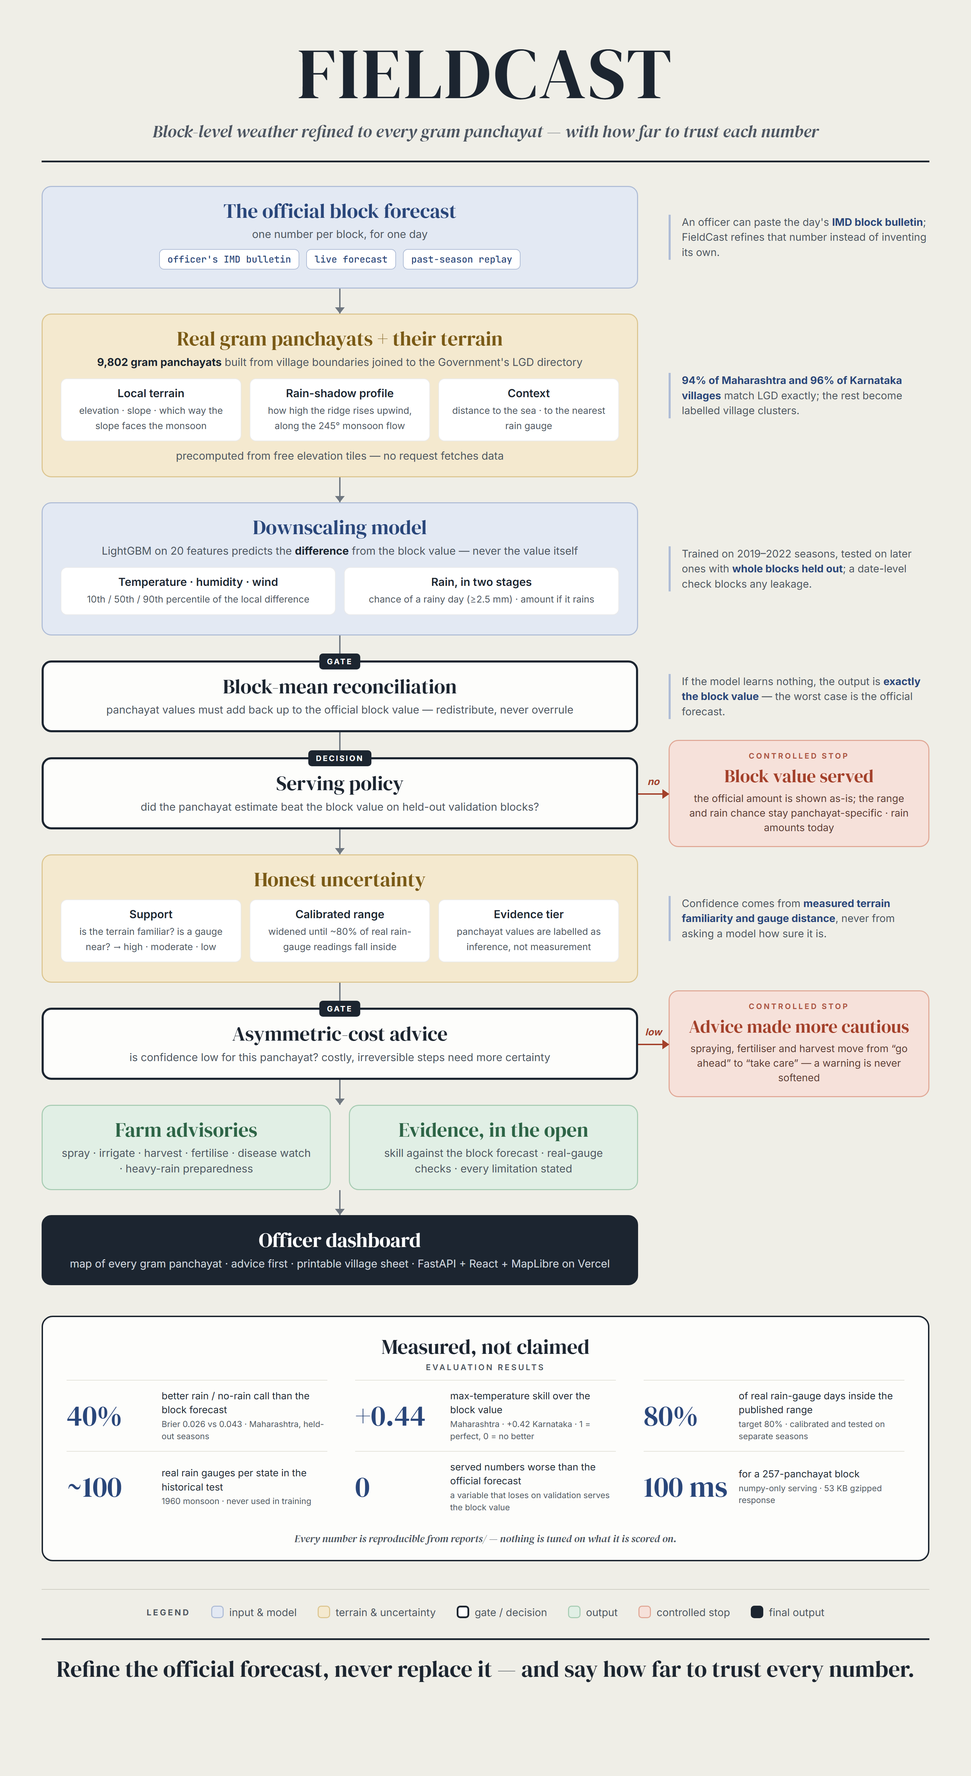
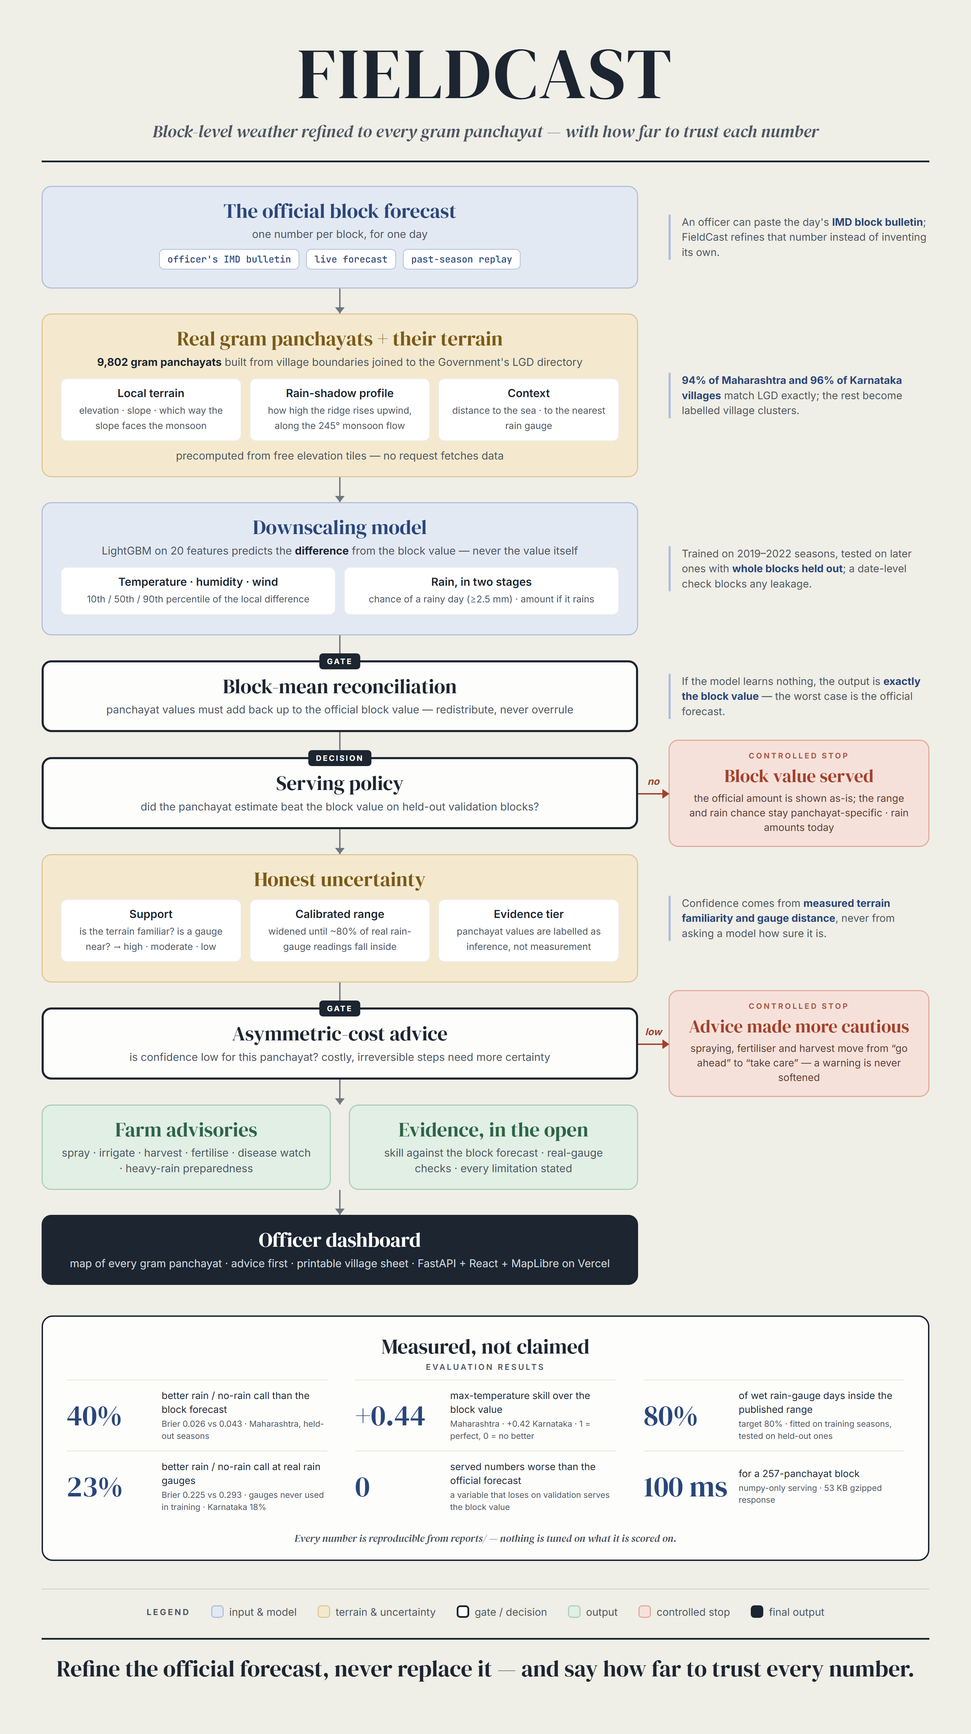
Expand README and show only measured results in the flowchart
README: badges, SIH context, features, design choices, coverage, results,
dashboard, stack, structure, run/test/deploy steps, API fields and credits.
Flowchart: replace the pending 1960 gauge-count stat with the measured
rain/no-rain skill at real gauges.

diff --git a/docs/flowchart/fieldcast-flowchart.html b/docs/flowchart/fieldcast-flowchart.html
@@ -217,8 +217,8 @@
     <div class="stats">
       <div class="stat"><div class="n" data-k="rain">40%</div><div class="d">better rain / no-rain call than the block forecast<small data-k="rain-note">Brier 0.026 vs 0.043 · Maharashtra, held-out seasons</small></div></div>
       <div class="stat"><div class="n" data-k="tmax">+0.44</div><div class="d">max-temperature skill over the block value<small data-k="tmax-note">Maharashtra · +0.42 Karnataka · 1 = perfect, 0 = no better</small></div></div>
-      <div class="stat"><div class="n" data-k="cov">80%</div><div class="d">of real rain-gauge days inside the published range<small data-k="cov-note">target 80% · calibrated and tested on separate seasons</small></div></div>
-      <div class="stat"><div class="n" data-k="gauges">~100</div><div class="d">real rain gauges per state in the historical test<small data-k="gauges-note">1960 monsoon · never used in training</small></div></div>
+      <div class="stat"><div class="n" data-k="cov">80%</div><div class="d">of wet rain-gauge days inside the published range<small data-k="cov-note">target 80% · fitted on training seasons, tested on held-out ones</small></div></div>
+      <div class="stat"><div class="n" data-k="gauges">23%</div><div class="d">better rain / no-rain call at real rain gauges<small data-k="gauges-note">Brier 0.225 vs 0.293 · gauges never used in training · Karnataka 18%</small></div></div>
       <div class="stat"><div class="n">0</div><div class="d">served numbers worse than the official forecast<small>a variable that loses on validation serves the block value</small></div></div>
       <div class="stat"><div class="n">100 ms</div><div class="d">for a 257-panchayat block<small>numpy-only serving · 53 KB gzipped response</small></div></div>
     </div>

diff --git a/README.md b/README.md
@@ -1,12 +1,105 @@
-# FieldCast
+<p align="center">
+  <img src="docs/logo.svg" alt="FieldCast" width="340" />
+</p>
 
-**Village-level weather, with honest confidence.**
-FieldCast (SIH26074) downscales block-level weather forecasts to **gram-panchayat
-level** for agro-meteorological advisories. Every value carries a **predictive
-range**, a **validation tier** and a **plain-language confidence label**, and the
-farm advice becomes more cautious where the system knows less.
+<p align="center">
+  <b>Village-level weather, with honest confidence.</b><br />
+  Block-level weather forecasts downscaled to every gram panchayat for agro-meteorological advisories.
+</p>
+
+<p align="center">
+  <img alt="Smart India Hackathon" src="https://img.shields.io/badge/Smart%20India%20Hackathon-SIH26074-f59e0b" />
+  <img alt="Ministry of Earth Sciences" src="https://img.shields.io/badge/Ministry-Earth%20Sciences-0a3b34" />
+  <img alt="Theme: Disaster Management" src="https://img.shields.io/badge/Theme-Disaster%20Management-a3402a" />
+  <img alt="License: MIT" src="https://img.shields.io/badge/License-MIT-047857" />
+</p>
+<p align="center">
+  <img alt="Python 3.12" src="https://img.shields.io/badge/Python-3.12-3776AB?logo=python&logoColor=white" />
+  <img alt="FastAPI" src="https://img.shields.io/badge/FastAPI-009688?logo=fastapi&logoColor=white" />
+  <img alt="LightGBM" src="https://img.shields.io/badge/LightGBM-quantile%20models-2e7d32" />
+  <img alt="React 18" src="https://img.shields.io/badge/React-18-20232a?logo=react&logoColor=61DAFB" />
+  <img alt="TypeScript" src="https://img.shields.io/badge/TypeScript-strict-3178C6?logo=typescript&logoColor=white" />
+  <img alt="MapLibre GL" src="https://img.shields.io/badge/MapLibre-GL-396CB2?logo=maplibre&logoColor=white" />
+  <img alt="Vercel" src="https://img.shields.io/badge/Deploy-Vercel-000000?logo=vercel&logoColor=white" />
+  <img alt="Tests: 408 passing" src="https://img.shields.io/badge/tests-408%20passing-047857" />
+</p>
+
+---
+
+## Contents
+
+[The problem](#the-problem) · [What FieldCast does](#what-fieldcast-does) · [How it works](#how-it-works) ·
+[Coverage](#coverage) · [Results](#results) · [The dashboard](#the-dashboard) · [Tech stack](#tech-stack) ·
+[Project structure](#project-structure) · [Run it locally](#run-it-locally) · [Deploy on Vercel](#deploy-on-vercel) ·
+[API](#api) · [Data and credits](#data-and-credits) · [Limitations](#limitations-stated-plainly)
+
+## The problem
+
+| | |
+|---|---|
+| **Problem statement** | SIH26074: *Downscaling of weather forecast from Block level to Panchayat level: inferring high-resolution plots / data / information / variables for agro-meteorological advisory services* |
+| **Ministry** | Ministry of Earth Sciences (MoES) |
+| **Theme** | Disaster Management |
+
+Agro-met advisories in India are issued per **block**, but a block can span a
+ridge, a valley and a rain shadow. Across the Western Ghats a windward slope can
+get a downpour while a village a few kilometres downwind stays dry. One number
+per block sends the same spraying, sowing and harvest advice to villages that
+will see very different weather.
+
+Two things make this harder than interpolation. Rainfall is not a smooth field,
+and **there is almost no panchayat-scale ground truth** to learn from or check
+against. So FieldCast's goal is the panchayat value **and** how far to trust it.
+
+## What FieldCast does
+
+- **Refines, never replaces, the official forecast.** It predicts each
+  panchayat's *difference* from the block value, and panchayat values always add
+  back up to the block value.
+- **Serves real gram panchayats.** It builds 9,802 of them from village
+  boundaries joined to the Government's LGD directory.
+- **Gives every number a range and a confidence level.** Each value has a
+  calibrated 80% range, a support level (high / moderate / low) and an evidence
+  tier.
+- **Treats rain as two statements.** It publishes a chance of rain (≥2.5 mm)
+  plus an *if-it-rains* amount range, instead of a misleading single number.
+- **Gives cautious farm advice.** Spraying, irrigation, harvest, fertiliser,
+  disease watch and heavy-rain preparedness move from *go ahead* to *take care*
+  where confidence is low. A warning is never softened.
+- **Accepts the officer's IMD bulletin.** An officer can type the official block
+  forecast and get it downscaled instantly.
+- **Shows its evidence in the open.** Skill, confidence intervals, gauge checks
+  and every loss are shown in the app, not only the wins.
+
+## How it works
 
 ![How FieldCast turns one block forecast into gram-panchayat advice](docs/flowchart/fieldcast-flowchart.png)
+
+| Design choice | Why |
+|---|---|
+| Predict the **anomaly** from the block value | If the model learns nothing, the output is exactly the official forecast |
+| **Rain-shadow terrain features**: ridge height upwind along the 245° monsoon flow, and the rise ahead | The rain shadow is caused by the ridge upwind of a village, not its local slope |
+| **Two-stage rainfall**: calibrated rainy-day classifier (IMD ≥2.5 mm) + conditional amount quantiles | One regressor smears drizzle everywhere; two stages allow "dry here, wet next door" |
+| **LightGBM quantile models** (10th / 50th / 90th percentile) | A predictive range, not just a point |
+| **Block-mean reconciliation** (rain reconciled in expectation) | The area-weighted panchayat mean equals the official block value |
+| **Serving policy** decided on validation data | A variable whose served estimate does not beat the block value serves the block value |
+| **Epistemic support**: terrain similarity to training data (chi-square-scaled Mahalanobis) + distance to a gauge | Tree models extrapolate with false confidence; low support widens the range and downgrades the advice |
+| **Gauge-calibrated ranges** | Ranges are widened until ~80% of real rain-gauge observations fall inside |
+| **Asymmetric-cost advice** | Irreversible, costly operations need more certainty than reversible ones |
+| **Numpy-only serving** | The trained trees are flattened into arrays (identical to ~1e-15), so the API runs without LightGBM, pandas or SciPy |
+
+### What is validated and what is inferred
+
+| Tier | Claim | Evidence |
+|---|---|---|
+| **T1** | Block → ~16 km grid | Held-out 2022-23 dry season and 2023 monsoon; whole blocks held out |
+| **T2** | → real rain gauge | NOAA GHCN gauges never used in training (4 modern gauges in Maharashtra, 3 in Karnataka) |
+| **T3** | → gram panchayat | **Not validated**: no panchayat-scale truth exists. Terrain-informed inference with a gauge-calibrated range, labelled in every response |
+
+Training uses the 2019–2022 monsoons and the 2021-22 dry season. A date-level
+check with a 3-day gap stops any test day from leaking into training.
+
+## Coverage
 
 | | Maharashtra (pilot) | Karnataka |
 |---|---|---|
@@ -15,44 +108,20 @@ farm advice becomes more cautious where the system knows less.
 | Villages | 11,740 | 7,999 |
 | Units served | **8,072 real gram panchayats** + 138 village clusters | **1,730 real gram panchayats** + 63 village clusters |
 
-Gram-panchayat boundaries are built by joining real village polygons to the
-Government of India's Local Government Directory (LGD) by census village code:
-94% of Maharashtra and 96% of Karnataka villages match exactly. The rest fall
-back to small village clusters, labelled as such in the app.
+Gram-panchayat boundaries are built by joining village polygons to the Local
+Government Directory (LGD) by census village code: 94% of Maharashtra and 96% of
+Karnataka villages match exactly. The rest fall back to small village clusters,
+labelled as such in the app.
 
----
-
-## Why this is not an interpolation problem
-
-Standard downscaling assumes the fine field is a smooth function of the coarse
-one. Rainfall is not smooth: across the Western Ghats a windward slope can get a
-downpour while a leeward village a few km away stays dry. And panchayat-scale
-ground truth barely exists. So the design goal is **the panchayat value *and* how
-far to trust it**.
-
-| Design choice | Why |
-|---|---|
-| Predict the **anomaly** from the block value | The system can only refine the official forecast; if it learns nothing it degrades exactly to "copy the block value" |
-| **Rain-shadow terrain features**: the ridge height upwind along the 245° monsoon flow, and the rise ahead | The rain shadow is caused by the ridge upwind of a village, not its local slope |
-| **Two-stage rainfall**: calibrated rainy-day classifier (IMD ≥2.5 mm) + amount ranges | One regressor smears drizzle everywhere; two stages allow "dry here, wet next door" |
-| **Block-mean reconciliation** (rain reconciled in expectation) | The area-weighted panchayat mean always equals the official block value |
-| **Epistemic support** (terrain similarity to training data + distance to a gauge) | Tree models extrapolate with false confidence; low support widens the range and downgrades the advice |
-| **Gauge-calibrated ranges** | The 80% range is widened so that it covers ~80% of real rain-gauge observations |
-| **Asymmetric-cost advice** | Under low confidence, irreversible operations (spraying, fertiliser, harvest) move from *go ahead* to *take care*, never the reverse |
-
-## What is validated and what is inferred
-
-| Tier | Claim | Evidence |
-|---|---|---|
-| **T1** | Block → ~16 km grid | Held-out 2022-23 dry season and 2023 monsoon; whole blocks held out |
-| **T2** | → real rain gauge | NOAA GHCN gauges never used in training: 4 modern gauges, and ~100 per state in the 1960 monsoon |
-| **T3** | → gram panchayat | **Not validated**: no panchayat-scale truth exists. Terrain-informed inference, gauge-calibrated range, labelled in every response |
+Variables: rainfall, maximum and minimum temperature, relative humidity and wind
+speed.
 
 ## Results
 
-Skill = 1 − MAE(model) / MAE(naive block copy); positive beats naive. 90% CIs are
-cluster bootstraps over blocks (T1) or gauges (T2); no result is called
-significant with fewer than 8 gauges. Full tables in `reports/`.
+Skill = 1 − MAE(model) / MAE(naive block copy); positive beats the block
+forecast, 1 is perfect. 90% CIs are cluster bootstraps over blocks (T1) or
+gauges (T2); no result is called significant with fewer than 8 gauges. Full
+tables are in [`reports/`](reports/) and on the app's Evidence page.
 
 | Held-out seasons, grid (T1) | Maharashtra | Karnataka |
 |---|---:|---:|
@@ -63,32 +132,99 @@ significant with fewer than 8 gauges. Full tables in `reports/`.
 | Rain / no-rain (Brier, lower is better) | **0.026** vs 0.043 block | **0.038** vs 0.056 block |
 | Rain amount | block value served | block value served |
 
-At real gauges never used in training (4 in Maharashtra, 3 in Karnataka), the
-rain / no-rain call again beats the block forecast (Brier 0.225 vs 0.293 and
-0.256 vs 0.313), and 80–81% of wet gauge-days fall inside the published
-if-it-rains range (target 80%).
+- **Real gauges never used in training.** The rain / no-rain call beats the
+  block forecast: Brier 0.225 vs 0.293 in Maharashtra (23% better) and 0.256 vs
+  0.313 in Karnataka. Also, 80–81% of wet gauge-days fall inside the published
+  if-it-rains range, against a target of 80%.
+- **Rain amounts** did not beat the block value on validation data. So
+  FieldCast serves the official amount as-is and adds the panchayat-specific
+  rain chance and range. Every variable follows this rule: nothing served was
+  worse than the block forecast on validation.
+- **Transfer test.** Maharashtra's models were applied to Karnataka.
+  Temperatures still improved (Tmax +0.20), but rain amounts got worse, so each
+  state is trained on its own data.
+- **Speed.** The largest block (257 panchayats) is served in ~100 ms, as a
+  53 KB gzipped response.
 
-Rain **amounts** did not beat the block value on validation data, so FieldCast
-serves the official amount as-is and adds the panchayat-specific rain chance
-and range. Every variable follows this rule: nothing served is worse than the
-block forecast on validation. Regenerate with
-`python -m backend.pipeline.evaluate.run`.
+## The dashboard
 
-## Running it locally
+Built for a block or district agriculture officer on a laptop or a phone.
+
+- **Map of every gram panchayat.** Colour shows the value relative to the block,
+  and texture shows confidence (plain / dots / hatching), so the two can never
+  be confused. When rain amounts come from the block, the map shows the chance
+  of rain.
+- **Advice first.** Each panchayat shows what to tell farmers, in plain words,
+  most restrictive first (✓ go ahead · ⚠ take care · ⛔ hold off).
+- **Weather cards.** Each value appears with its likely range as a band, the
+  block value marked, and a plain verdict.
+- **"How sure are we?"** Support level, distance to the nearest gauge and the
+  evidence tier. It is always visible, never behind a toggle.
+- **Block summary.** Per-variable spread across panchayats, confidence counts,
+  and an advice roll-up, plus a searchable, sortable panchayat list.
+- **Official bulletin, date replay and print.** Officers can enter the official
+  bulletin, replay past seasons or view live forecasts (yesterday to +15 days),
+  and print a one-page advisory sheet for a panchayat noticeboard.
+- **Evidence and How it works pages.** Skill charts with CIs, gauge checks and
+  limitations, plus a plain-language method explainer.
+- **Accessibility.** Keyboard accessible, colour-blind-safe palettes, and a
+  mobile layout.
+
+## Tech stack
+
+| Layer | Tools |
+|---|---|
+| Modelling pipeline | Python 3.12 · LightGBM · scikit-learn (isotonic calibration) · pandas · GeoPandas · Shapely · PyArrow |
+| Serving API | FastAPI · pydantic · numpy-only runtime · GZip |
+| Dashboard | React 18 · TypeScript (strict) · Vite · MapLibre GL · OpenStreetMap tiles |
+| Quality | pytest (231 tests) · vitest (177 tests) · ruff · eslint |
+| Hosting | Vercel (FastAPI preset + CDN for the built dashboard); no Docker |
+
+## Project structure
+
+```
+backend/
+  app/            FastAPI app: routes, schemas, advisory rules
+  serve/          numpy-only runtime, flattened trees, bundle export
+  pipeline/
+    geo/          blocks, gram panchayats (LGD join), terrain, coastline
+    sources/      Open-Meteo, DEM tiles, NOAA gauges
+    features/     feature tables for training and evaluation
+    models/       quantile downscalers, reconciliation, support, calibration, serving policy
+    evaluate/     T1 / T2 evaluation, bootstrap CIs, reports
+    build_base.py · fetch.py · train.py
+  tests/
+frontend/src/
+  components/     forecast (map + sidebar), village detail, evidence, about, shell
+  lib/            colour scales, formatting, dates, advice and evidence helpers
+  api/ hooks/ styles/ types/
+serve_bundle/     committed model bundle the deployed API reads
+reports/          evaluation reports (Markdown + JSON)
+docs/             architecture, backend and frontend guides, decisions, flowchart
+```
+
+## Run it locally
 
 ```bash
 python -m venv .venv
-.venv/Scripts/python -m pip install -e ".[serve,pipeline,dev]"
+.venv/Scripts/python -m pip install -e ".[serve,pipeline,dev]"   # .venv/bin/python on macOS/Linux
 cd frontend && npm install && npm run build && cd ..
 .venv/Scripts/python -m uvicorn backend.app.main:app --port 8000
 ```
 
-Open http://localhost:8000: the one process serves the API and the dashboard.
-For frontend development, run `npm run dev` in `frontend/` (http://localhost:5173,
+Open http://localhost:8000: one process serves the API and the dashboard. For
+frontend development, run `npm run dev` in `frontend/` (http://localhost:5173,
 proxying `/api` to port 8000). With `DOWNSCALE_OFFLINE=1` the app runs without a
 network for replay dates and officer-supplied bulletins.
 
-### Rebuilding the data and models (pipeline)
+**Tests and lint**
+
+```bash
+.venv/Scripts/python -m pytest -q && .venv/Scripts/python -m ruff check .
+cd frontend && npm run lint && npm test
+```
+
+**Rebuilding the data and models (pipeline)**
 
 ```bash
 # 1. Blocks, gram-panchayat units, gauge index. Put the LGD
@@ -98,42 +234,47 @@ python -m backend.pipeline.build_base --region mh_ghats
 python -m backend.pipeline.fetch --region mh_ghats --region ka_ghats
 # 3. Train (optionally on whatever history is complete so far).
 python -m backend.pipeline.train --region mh_ghats --available-only
-# 4. Evaluate: T1, modern gauges, historical gauges, calibration.
+# 4. Evaluate: T1, gauges, calibration, and the transfer test.
 python -m backend.pipeline.evaluate.run --region mh_ghats
-python -m backend.pipeline.evaluate.run --region ka_ghats --model-region mh_ghats  # transfer test
+python -m backend.pipeline.evaluate.run --region ka_ghats --model-region mh_ghats
 # 5. Export the serving bundle the API reads, then commit it.
 python -m backend.serve.export --region mh_ghats --region ka_ghats
 ```
 
-## Deploying on Vercel
+## Deploy on Vercel
 
 The repository is ready for Vercel's FastAPI preset; no Docker.
 
-1. Push the branch to GitHub and import the repository in Vercel (or run `vercel`
-   from the repository root).
-2. Keep the project root at the repository root. Vercel then:
-   - builds the dashboard with the `buildCommand` in `vercel.json`
-     (`cd frontend && npm ci && npm run build`);
-   - installs only the runtime dependencies from `pyproject.toml` (FastAPI,
-     pydantic, httpx, numpy: about 83 MB);
-   - loads the app from `[tool.vercel] entrypoint = "backend.app.main:app"` and
-     serves the built dashboard from its CDN.
-3. The API reads the committed `serve_bundle/`; training data and models are
-   never uploaded (`.vercelignore`).
+1. Import the GitHub repository in Vercel (or run `vercel` from the repository
+   root), keeping the project root at the repository root.
+2. Vercel builds the dashboard with the `buildCommand` in `vercel.json`
+   (`cd frontend && npm ci && npm run build`).
+3. It installs only the runtime dependencies from `pyproject.toml` (FastAPI,
+   pydantic, httpx, numpy: about 86 MB).
+4. It loads `[tool.vercel] entrypoint = "backend.app.main:app"` and serves the
+   built dashboard from its CDN.
 
-To update a deployment after retraining, re-export the bundle, commit it and
+The API reads the committed `serve_bundle/`; training data and models are never
+uploaded (`.vercelignore`). After retraining, re-export the bundle, commit it and
 redeploy.
 
 ## API
 
 | Endpoint | Purpose |
 |---|---|
+| `GET /api/health` | Liveness and model version |
 | `GET /api/regions` | Regions, whether each is served, and the dates that can be replayed |
 | `GET /api/blocks?region=` | Blocks with unit counts |
 | `GET /api/blocks/{id}/panchayats` | Gram-panchayat outlines (GeoJSON) |
 | `GET /api/blocks/{id}/forecast?date=` | Forecast for a replay date, or live from yesterday to +15 days |
 | `POST /api/blocks/{id}/forecast` | Downscale an **official block forecast you supply** (e.g. an IMD bulletin) |
 | `GET /api/evaluation`, `/api/evaluation/reports` | Skill tables and full evaluation reports |
+
+Each variable in a forecast carries its `value`, the `block_value` and the
+difference (`anomaly`), a `confidence` block (80% `lower`/`upper`, `support`,
+`tier`, `nearest_gauge_km`), and for rain the `rain_probability`. `value_source`
+says whether the value is the model's or the block's, and `range_basis` says
+whether the range covers all days or only rainy ones.
 
 ## Data and credits
 
@@ -150,8 +291,6 @@ All sources are public and need no API key.
 | [NOAA GHCN-Daily](https://www.ncei.noaa.gov/products/land-based-station/global-historical-climatology-network-daily) | rain gauges | public domain |
 | [OpenStreetMap](https://www.openstreetmap.org/copyright) | map background | ODbL |
 
-Code is released under the [MIT licence](LICENSE).
-
 ## Limitations, stated plainly
 
 1. Panchayat-level (T3) values are inference: no panchayat-scale measurements
@@ -160,11 +299,21 @@ Code is released under the [MIT licence](LICENSE).
    grouped into labelled village clusters.
 3. The models learn from a reanalysis (ERA5), not an IMD operational forecast.
    IMD block values can be supplied through the app, but were not used in training.
-4. Modern rain gauges are scarce (4 in the modelled Maharashtra blocks); the
-   ~100-gauge test uses 1960, when the reanalysis assimilated fewer observations.
+4. Modern rain gauges are scarce (4 in the modelled Maharashtra blocks, 3 in
+   Karnataka), so gauge results are not yet statistically significant. A
+   ~100-gauge-per-state historical test (1960 monsoon) is built into the
+   evaluation, and its results will be added.
 5. Each state needs its own training: in a region it was not trained on,
    rainfall amounts were worse than the block value.
 6. Humidity and wind have no gauge validation, so their ranges use a fixed widening.
 
-See `docs/architecture.md` for the design and `docs/decisions.md` for the
-reasoning behind each choice.
+## Documentation
+
+- [`docs/architecture.md`](docs/architecture.md): system design and data flow
+- [`docs/backend.md`](docs/backend.md): pipeline, models, serving and API in depth
+- [`docs/frontend.md`](docs/frontend.md): dashboard design and components
+- [`docs/decisions.md`](docs/decisions.md): the reasoning behind each technical choice
+
+## License
+
+Released under the [MIT licence](LICENSE).
